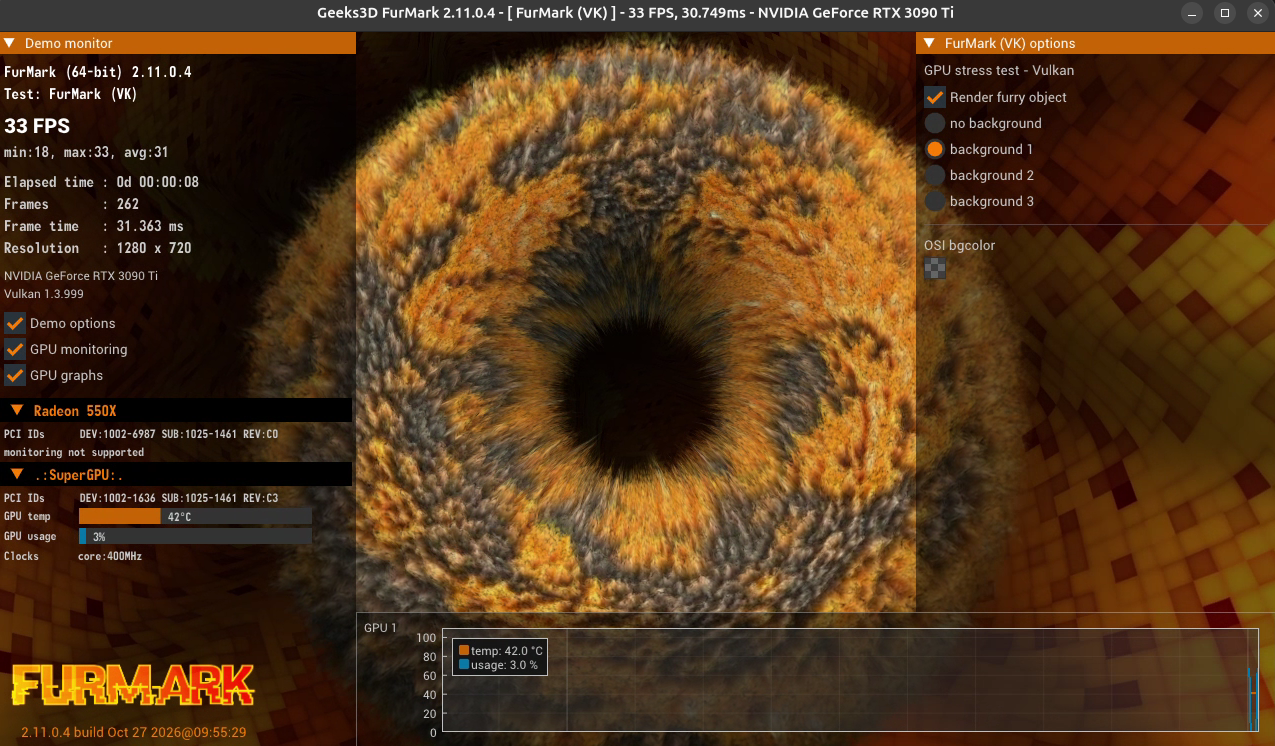
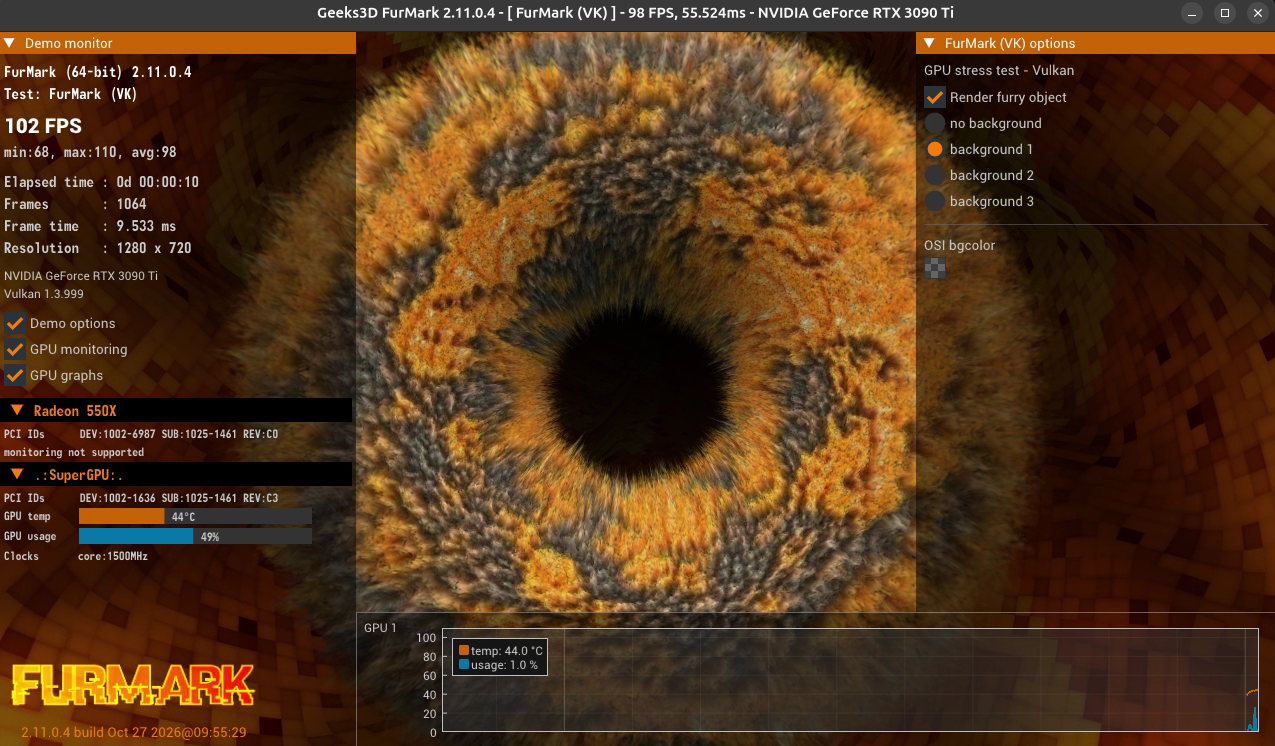
README: updated FurMark screenshot (98 FPS average)

diff --git a/README.md b/README.md
@@ -4,9 +4,9 @@ Share one powerful home GPU between your devices: run big AI models, play games 
 
 > **Status: early research project.** Things work in the lab, not yet in everyday use. Linux only for now (Windows client is planned).
 
-![FurMark (Vulkan) running on a laptop with a Ryzen 5 4500U, rendered on a remote RTX 3090 Ti: 33 FPS, 1280x720](docs/images/furmark-remote-rtx3090ti.png)
+![FurMark (Vulkan) running on a laptop with a Ryzen 5 4500U, rendered on a remote RTX 3090 Ti: 98 FPS on average, 1280x720](docs/images/furmark-remote-rtx3090ti.png)
 
-*FurMark (Vulkan) running on a Ryzen laptop, drawn by the RTX 3090 Ti in another machine over a 1 Gb/s cable, returned as H.264: 1280x720, about 31 FPS on average (window title shows the remote card). It is a GPU stress test, yet the remote GPU is mostly idle here, so the limit is our transport, not the card; that is what we are optimising.*
+*FurMark (Vulkan) running on a Ryzen laptop, drawn by the RTX 3090 Ti in another machine over a 1 Gb/s cable, returned as H.264: 1280x720, 98 FPS on average over 10 s (min 68, max 110; the window shows the remote card). It is a GPU stress test, yet the remote GPU is mostly idle here, so the limit is our transport, not the card; that is what we are optimising.*
 
 ## What is in here
 
